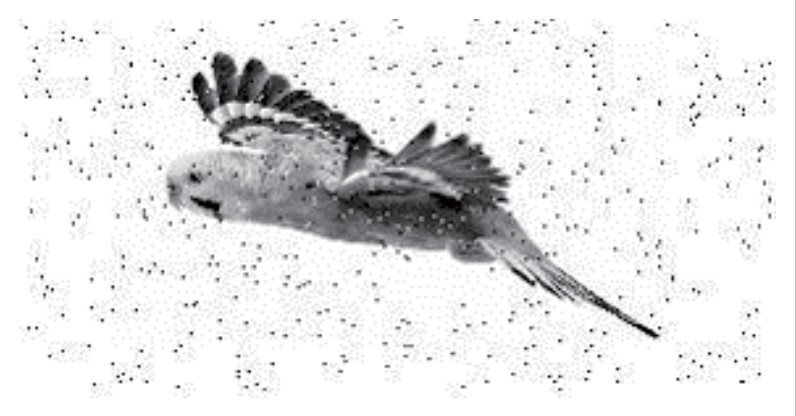
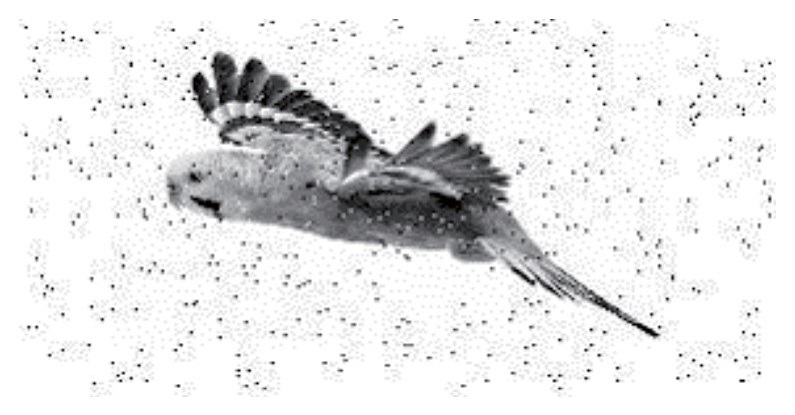
high pass filter and convolve

diff --git a/main.py b/main.py
@@ -4,12 +4,40 @@ from scipy import ndimage
 from PIL import Image
 
 
+# File paths
+bird_image_path = r'data/bird.jpg'
+bird_with_noise_image_path = r'data/bird-with-noise.jpg'
+bird_with_noise_resized_image_path = r'data/bird-with-noise-resized.jpg'
+
+# bird = np.array(Image.open(bird_image_path).resize(80, 36).convert('L'), dtype=np.uint8)
+# print(bird.shape)
+# plt.imshow(bird)
+
+bird_with_noise = np.array(Image.open(bird_with_noise_resized_image_path).convert('L'), dtype=np.uint8)
+# print(bird_with_noise.shape)
+# plt.imshow(bird_with_noise)
+
+# HPF
+hpf_kernel_3x3 = np.array([[0,  1,  0],
+                           [1,  4,  1],
+                           [0,  1,  0]])
+
+hpf_kernel_5x5 = np.array([[-1, -1, -1, -1, -1],
+                           [-1, -1,  1, -1, -1],
+                           [-1,  1,  2,  1, -1],
+                           [-1, -1,  1, -1, -1],
+                           [-1, -1, -1, -1, -1]])
+
+# LPF
+lpf_kernel_3x3 = np.array([[-1, -1, -1],
+                           [-1,  8, -1],
+                           [-1, -1, -1]])
 
 
+# hpf_bird_with_noise = ndimage.convolve(bird_with_noise, hpf_kernel_3x3)
+# print(hpf_bird_with_noise.shape)
+# plt.imshow(hpf_bird_with_noise, cmap='gray')
+# Image.fromarray(hpf_bird_with_noise).save(r'data/hpf_bird_with_noise_4.jpg')
 
-def main():
-    print("abc")
-
-
-if __name__ == '__main__':
-    main()
+lpf_bird_with_noise = ndimage.convolve(bird_with_noise, lpf_kernel_3x3)
+Image.fromarray(lpf_bird_with_noise).save(r'data/lpf_bird_with_noise.jpg')
